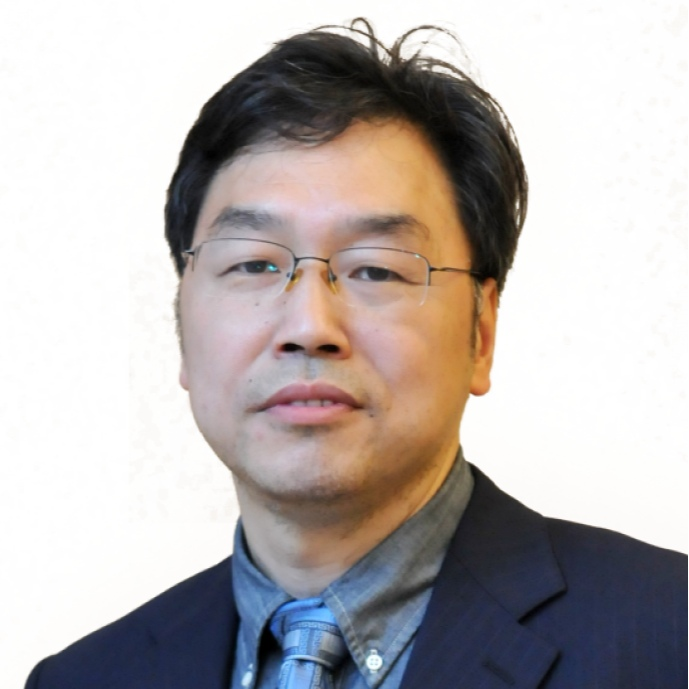
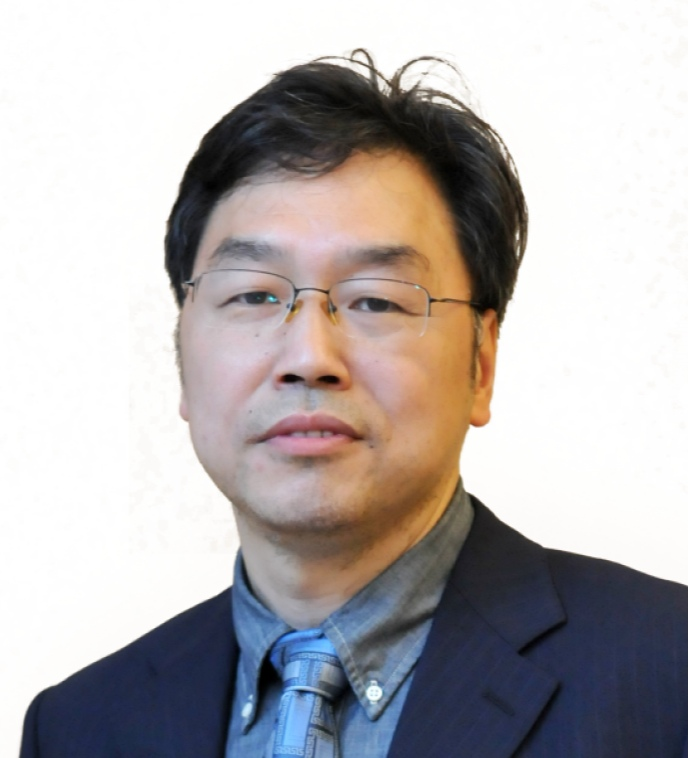
分组研讨页面&照片更新

diff --git a/src/group.html b/src/group.html
@@ -69,6 +69,10 @@
 						href="registration.html">会议注册</a>
 				</li> -->
 				<li>
+                    <a class="block p-2 text-white no-underline rounded hover:text-primary-900 hover:bg-white"
+                        href="group.html">分组研讨</a>
+                </li>
+				<li>
 					<a class="block p-2 text-white no-underline rounded hover:text-primary-900 hover:bg-white"
 						href="hotel.html">交通和酒店</a>
 				</li>
@@ -94,10 +98,10 @@
 				<h2>分组列表</h2>
 				<hr class="h-1 mb-4 bg-primary-200 border-0">
 				<ul class="space-y-4">
-					<li> <a href="#group1">组1（组长：陈昊，副组长：彭思达）</a></li>
-					<li> <a href="#group2">组2（组长：韩晓光，副组长：廖依伊）</a></li>
-					<li> <a href="#group3">组3（组长：戴勃，副组长：邹常青）</a></li>
-					<li> <a href="#group4">组4（组长：刘利斌，副组长：崔兆鹏）</a></li>
+					<li> <a href="#group1">组1（组长：姚遥，副组长：龙霄潇）</a></li>
+					<li> <a href="#group2">组2（组长：陈颖聪，副组长：杜韬）</a></li>
+					<li> <a href="#group3">组3（组长：弋力，副组长：梁俊卫）</a></li>
+					<li> <a href="#group4">组4（组长：宋杰，副组长：李昊昂）</a></li>
 				</ul>
 			</div>
 
@@ -110,16 +114,16 @@
 						<tbody>
 							<tr class="*:p-2">
 								<td class="w-4/5 text-justify leading-relaxed">
-									<strong>陈昊:</strong>
-									陈昊，浙江大学计算机学院百人计划研究员。研究兴趣为计算视觉和人工智能。
-									发表国际著名学术期刊和会议论文30余篇，谷歌学术引用7000余次。
-									所做工作受邀在多个CCF A类国际会议做口头报告。其中全卷积目标检测框架FCOS为ICCV近年第二高引论文。
-									主导开发的自研开源算法库在学术界和工业界被广泛使用，GitHub获得2000+关注。在文字检测、深度估计、
-									语义分割、自动驾驶感知等多项国际人工智能算法竞赛中获得冠军。
+									<strong>姚遥:</strong>
+									姚遥，南京大学智能科学与技术学院准聘副教授、博士生导师，国家级人才计划青年项目入选者。
+									曾任Altizure创始团队核心成员，后随公司收购加入苹果，任苹果公司高级研究员。
+									2015年于南京大学获学士学位，2019年于香港科技大学获博士学位（博士导师：权龙教授）。
+									主要研究方向为三维重建、可微渲染及三维内容生成，代表性工作包括MVSNet系列工作、NeILF系列工作以及Direct3D系列工作，曾获2020年国际模式识别大会最佳学生论文奖。
+									现作为项目负责人承担国家自然科学基金优秀青年科学基金（海外）项目、国家自然科学基金委专项项目（元宇宙专项）以及科技部重点研发计划课题。
 								</td>
 								<td>
 									<img
-										src="https://games-1312234642.cos.ap-guangzhou.myqcloud.com/other/gamesresources/games2023/img/group/chenhao.png">
+										src="static/img/committee/Yao_Yao.jpg">
 								</td>
 							</tr>
 						</tbody>
@@ -129,16 +133,15 @@
 						<tbody>
 							<tr class="*:p-2">
 								<td class="w-4/5 text-justify leading-relaxed">
-									<strong>彭思达:</strong>
-									彭思达，浙江大学软件学院百人计划研究员。在2023年获得浙江大学计算机科学与技术博士学位，
-									研究方向为三维计算机视觉。至今在TPAMI、CVPR、ICCV等期刊或会议发表三十余篇论文，一作论文引用接近2000次，
-									其中一篇一作论文获得CVPR最佳论文候选，发表的论文在GitHub开源获得超过5000个stars。曾获得2023年WAIC云帆奖
-									-明日之星（全球15人）、2022年苹果学者奖学金（全球15人）、2020年CCF-CV学术新锐奖（全国3人）、
-									2021年中国CCF图形开源软件奖。
+									<strong>龙霄潇:</strong>
+									龙霄潇，香港科技大学博士后。2023年博士毕业于香港大学，2018年本科毕业于浙江大学。
+									主要研究方向为3D内容生成、神经渲染、3D曲面建模、基于图像的深度/法向估计、基于图像的3D重建。
+									在TPAMI、CVPR、ICLR、ICCV、ECCV等顶会顶刊发表论文二十余篇。
+									主要有Craftsman3D、Wonder3D、SyncDreamer、SparseNeuS、GeoWizard、GaussianPro等3D AIGC、重建、渲染工作。
 								</td>
 								<td>
 									<img
-										src="https://games-1312234642.cos.ap-guangzhou.myqcloud.com/other/gamesresources/games2023/img/committee/pengsida.png">
+										src="static/img/committee/Xiaoxiao_Long.jpg">
 								</td>
 							</tr>
 						</tbody>
@@ -153,16 +156,18 @@
 						<tbody>
 							<tr class="*:p-2">
 								<td class="w-4/5 text-justify leading-relaxed">
-									<strong>韩晓光:</strong>
-									韩晓光博士，现任香港中文大学（深圳）理工学院助理教授，校长青年学者。他于2017年获得香港大学计算机科学专业博士学位。其研究方向包括计算机视觉和计算机图形学等，在该方向著名国际期刊和会议已发表论文60余篇，包括顶级会议和期刊SIGGRAPH(Asia),
-									CVPR, ICCV, ECCV, NeurIPS, ACM TOG, IEEE
-									TPAMI等。他曾获得吴文俊人工智能优秀青年奖，广东省杰出青年基金资助，香港中文大学（深圳）青年科研奖。目前也担任CVPR2023，NeurIPS
-									2023以及CVPR2024领域主席。他的工作还曾两次获得CCF图形开源数据集奖（DeepFashion3D和MVImgNet），2019年和2020年连续两年入选计算机视觉顶级会议CVPR最佳论文列表（入选率分别为0.8%和0.4%），他也曾获得IEEE
-									TVCG最佳审稿人提名奖。
+									<strong>陈颖聪:</strong>
+									陈颖聪，香港科技大学（广州）人工智能学域助理教授，博导，香港科技大学计算机科学与工程系联署助理教授，
+									受国家人才计划青年项目（海外）资助，毕业于香港中文大学，曾担任麻省理工学院担任博士后研究员。
+									多年以来一直致力于计算机视觉，特别是视觉生成模型的研究，在TPAMI、CVPR、ICCV、ECCV等顶级学术会议、期刊发表论文三十余篇。
+									其工作专注于视觉感知与生成的深度模型的基础与应用研究，研究领域包括三维重建，图像生成，人脸编辑，行人身份识别等，
+									可应用于自动驾驶，智能安全监控，虚拟数字人等实用领域。多次以第一作者或者通信作者身份在顶级会议中做口头报告，
+									其研究成果入选ESI高被引论文、ICCV最佳论文提名，获中国图像图形学会自然科学奖一等奖。
+									在TPAMI、IJCV、CVPR、ICCV、ECCV、NeurlPS、AAAI等顶级学术会议、期刊担任程序委员会成员或审稿人，并在IJCAI与AAAI担任资深程序委员会成员。
 								</td>
 								<td>
 									<img
-										src="https://games-1312234642.cos.ap-guangzhou.myqcloud.com/other/gamesresources/games2023/img/guest/hanxiaoguang.png">
+										src="static/img/committee/Yingcong_Chen.jpg">
 								</td>
 							</tr>
 						</tbody>
@@ -172,13 +177,16 @@
 						<tbody>
 							<tr class="*:p-2">
 								<td class="w-4/5 text-justify leading-relaxed">
-									<strong>廖依伊:</strong>
-									廖依伊，浙江大学信电学院特聘研究员。研究兴趣为三维视觉，包括三维生成、场景重建与理解等。在TPAMI、CVPR、ICCV、NeurIPS等顶级期刊和会议发表文章三十余篇，引用超2500次，其中牵头搭建的大规模稠密标注数据集KITTI-360受到广泛应用且获得ESI高被引论文。担任CVPR2023、NeurIPS
-									2023、CVPR 2024领域主席。获浙江大学启真优秀青年学者、2023 百度 AI 华人女性青年学者。
+									<strong>杜韬:</strong>
+									杜韬，清华大学交叉信息研究院助理教授，博士生导师。
+									杜韬博士毕业于麻省理工学院计算机图形学实验室，主要研究方向为图形学中的物理仿真与计算设计。
+									他的研究工作发表在计算机图形学和机器学习领域顶级期刊和会议（ACM TOG, SIGGRAPH North\nAmerica/Asia, ICLR, ICML, NeurIPS)上，
+									并受到多家知名科技媒体（WIRED，MIT News, IEEE Spectrum, TechCrunch等）的关注与报道。
+									此外，他多次担任SIGGRAPH North America/Asia技术论文程序委员会委员并多次获评NeurIPS/ICML优秀审稿人。
 								</td>
 								<td>
 									<img
-										src="https://games-1312234642.cos.ap-guangzhou.myqcloud.com/other/gamesresources/games2023/img/committee/liaoyiyi.png">
+										src="static/img/committee/Tao_Du.jpg">
 								</td>
 							</tr>
 						</tbody>
@@ -195,17 +203,16 @@
 						<tbody>
 							<tr class="*:p-2">
 								<td class="w-4/5 text-justify leading-relaxed">
-									<strong>戴勃:</strong>
-									戴勃，上海人工智能实验室青年科学家，内容生成与数字
-									化研究团队负责人，书生天际城市级实景三维大模型负责人，
-									曾任新加坡南洋理工大学研究助理教授。研究领域为AIGC，
-									希望通过研究实现多快好省的虚拟内容生产。
-									在人工智能顶级会议和期刊发表相关论文共计40余篇。
-									近期代表性成果书生天际LandMark，AnimateDiff，Matlaber
+									<strong>弋力:</strong>
+									弋力博士现任清华大学交叉信息研究院助理教授。
+									他在斯坦福大学取得博士学位，导师为美国三院院士Leonidas J. Guibas教授，毕业后在谷歌研究院任研究科学家。
+									他近期的研究聚焦于三维视觉与具身智能，他的研究目标是赋予机器人理解并与三维世界交互的能力。
+									他在计算机顶级会议期刊上已发表论文六十余篇，引用数两万余次，代表作品包括ShapeNet Part，SyncSpecCNN，PointNet++等，
+									大大影响了三维深度学习这一领域的出现与发展。此外他还多次担任CVPR、IJCAI、NeurIPS等人工智能领域顶会的领域主席。
 								</td>
 								<td>
 									<img
-										src="https://games-1312234642.cos.ap-guangzhou.myqcloud.com/other/gamesresources/games2023/img/guest/daibo.png">
+										src="static/img/committee/Li_Yi.jpg">
 								</td>
 							</tr>
 						</tbody>
@@ -215,17 +222,17 @@
 						<tbody>
 							<tr class="*:p-2">
 								<td class="w-4/5 text-justify leading-relaxed">
-									<strong>邹常青:</strong>
-									邹常青，浙江大学计算机学院百人计划研究员，博士生导师，
-									之江实验室研究专家。研究兴趣为可视媒体内容合成与表征分析。
-									加入浙江大学前任职华为2012实验室加拿大研究院资深主任研究科学家及助理首席科学家,
-									曾任职美国马里兰大学先进计算机技术研究所(UMIACS)研究助理教授, 在加拿大西蒙菲沙大学GrUVi Lab完成博士后深造,
-									在中国科学院深圳先进技术研究院多媒体技术研究中心(SIAT-MMLA)完成博士学习, 曾访学微软亚洲研究院(MSRA)、德国马普所(MPI)等研究机构。
-									在国际重要学术期刊及会议上发表论文70余篇(其中30多篇发表在Cell子刊、SIGGRAPH、TPAMI等顶会顶刊上), 授权美国发明专利10余项。
+									<strong>梁俊卫:</strong>
+									梁俊卫，香港科技大学（广州）人工智能学域助理教授/副研究员/博士生导师，
+									创立并领导智能感知与预测实验室，卡内基梅隆大学计算机博士，曾获得百度奖学金（全球10名），
+									雅虎奖学金，世界人工智能大会明日之星云帆奖，研究工作曾被包括美国华盛顿邮报、纽约时报以及机器之心等媒体报道。
+									研究内容包括计算机视觉与具身智能，近五年内于CVPR、TPAMI、NeurIPS等国际顶级期刊会议发表论文30余篇，
+									谷歌学术引用量1500余次, h-index 17，组织举办顶级会议CVPR 2023、2024的Precognition Workshop；
+									主持国自然青年基金、两项广州市科技局课题、两项校级课题、美团机器人研究院、华为课题等近两百万元的科研项目，并参与科技部国家重点研发计划。
 								</td>
 								<td>
 									<img
-										src="https://games-1312234642.cos.ap-guangzhou.myqcloud.com/other/gamesresources/games2023/img/committee/zouchangqing.png">
+										src="static/img/committee/Junwei_Liang.jpg">
 								</td>
 							</tr>
 						</tbody>
@@ -242,17 +249,15 @@
 						<tbody>
 							<tr class="*:p-2">
 								<td class="w-4/5 text-justify leading-relaxed">
-									<strong>刘利斌:</strong>
-									刘利斌，北京大学智能学院助理教授。博士毕业于清华大学，后曾于加拿大不列颠哥伦比亚大学（The University of British
-									Columbia）及美国迪士尼研究院（Disney Research）进行博士后研究，以及美国硅谷创业公司DeepMotion
-									Inc.担任首席科学家。主要研究方向是计算机图形学，特别是数字人建模与动画、物理仿真、运动控制以及相关的优化控制、机器学习、增强学习等领域。他曾获得
-									SIGGRAPH Asia 2022 Best Paper Award、SIGGRAPH 2023 Honorable Mention Award
-									等奖项，并多次担任图形学领域重要国际会议如SIGGRAPH (North
-									America/Asia)、EG、PG、SCA等的论文程序委员，以及图形学领域主要会议和期刊的审稿人。
+									<strong>宋杰:</strong>
+									宋杰，香港科技大学（广州）助理教授。
+									宋杰博士毕业于瑞士苏黎世联邦理工学院，曾获得高通博士创新奖学金提名，瑞士电信最佳论文。
+									他专注于计算机视觉，机器人以及人机交互研究，近五年在各类顶级计算机顶级会议期刊发表论文多篇(包括3DV最佳论文奖， 多篇CVPR口头报告等)。
+									学术服务方面，宋博士多次担任计算机顶会领域主席，并担任3DV2025大会主席。
 								</td>
 								<td>
 									<img
-										src="https://games-1312234642.cos.ap-guangzhou.myqcloud.com/other/gamesresources/games2023/img/group/liulibin.png">
+										src="static/img/committee/Jie_Song.jpg">
 								</td>
 							</tr>
 						</tbody>
@@ -262,14 +267,20 @@
 						<tbody>
 							<tr class="*:p-2">
 								<td class="w-4/5 text-justify leading-relaxed">
-									<strong>崔兆鹏:</strong>
-									崔兆鹏，浙江大学计算机科学与技术学院
-									“百人计划”研究员、博士生导师，国家级青年人才计划入选者。2017年在加拿大西蒙弗雷泽大学获得博士学位。2017年至2020年在瑞士苏黎世联邦理工学院计算机视觉和几何实验室任高级研究员。研究方向为三维计算机视觉，主要从事基于视觉信息的三维感知和理解，具体包括三维重建、运动恢复结构、多视角立体几何、三维场景理解、同时定位与地图构建、视频图像编辑等。近年来在计算机视觉、机器人、计算机图形学、机器学习等领域的顶级期刊和会议上发表论文40余篇，曾获ICRA
-									2020 机器视觉最佳论文提名和IROS 2021安全、安保和救援机器人最佳论文提名。
+									<strong>李昊昂:</strong>
+									李昊昂博士于香港科技大学（广州）机器人与自主系统学域和智能交通学域担任助理教授，
+									并领导智能机器人感知与导航实验室Intelligent Robot Perception and Navigation (IRPN) Lab。
+									在此之前，他在慕尼黑工业大学担任博士后研究员，师从Daniel Cremers教授（Leibniz Prize获得者）。
+									他于2022年获得香港中文大学博士学位，师从Yun-Hui Liu教授（IEEE Fellow）。
+									博士期间，他曾在苏黎世联邦理工学院进行学术访问，师从Marc Pollefeys教授（Marr Prize获得者）。
+									他于2018和2016年分别获得武汉大学硕士和学士学位。
+									他在计算机视觉和机器人行业顶级会议和期刊（例如CVPR, ICCV, ECCV, TPAMI等）发表多篇文章，
+									并曾获得香港特区教育局研究外展奖、ICCV 2021博士生联合会奖、ICRA 2024 RoboDrive挑战赛季军、CVPR 2021杰出审稿人等奖项。
+									他的主要研究方向为机器人/无人车导航、三维计算机视觉、具身智能等。
 								</td>
 								<td>
 									<img
-										src="https://games-1312234642.cos.ap-guangzhou.myqcloud.com/other/gamesresources/games2023/img/committee/cuizhaopeng.png">
+										src="static/img/committee/Haoang_Li.jpg">
 								</td>
 							</tr>
 						</tbody>

diff --git a/src/committee.html b/src/committee.html
@@ -69,6 +69,10 @@
                 </li> -->
                 <li>
                     <a class="block p-2 text-white no-underline rounded hover:text-primary-900 hover:bg-white"
+                        href="group.html">分组研讨</a>
+                </li>
+                <li>
+                    <a class="block p-2 text-white no-underline rounded hover:text-primary-900 hover:bg-white"
                         href="hotel.html">交通和酒店</a>
                 </li>
             </ul>

diff --git a/src/guest.html b/src/guest.html
@@ -70,6 +70,10 @@
                 </li> -->
                 <li>
                     <a class="block p-2 text-white no-underline rounded hover:text-primary-900 hover:bg-white"
+                        href="group.html">分组研讨</a>
+                </li>
+                <li>
+                    <a class="block p-2 text-white no-underline rounded hover:text-primary-900 hover:bg-white"
                         href="hotel.html">交通和酒店</a>
                 </li>
             </ul>

diff --git a/src/hotel.html b/src/hotel.html
@@ -69,6 +69,10 @@
                 </li> -->
                 <li>
                     <a class="block p-2 text-white no-underline rounded hover:text-primary-900 hover:bg-white"
+                        href="group.html">分组研讨</a>
+                </li>
+                <li>
+                    <a class="block p-2 text-white no-underline rounded hover:text-primary-900 hover:bg-white"
                         href="hotel.html">交通和酒店</a>
                 </li>
             </ul>

diff --git a/src/index.html b/src/index.html
@@ -69,6 +69,10 @@
                 </li> -->
                 <li>
                     <a class="block p-2 text-white no-underline rounded hover:text-primary-900 hover:bg-white"
+                        href="group.html">分组研讨</a>
+                </li>
+                <li>
+                    <a class="block p-2 text-white no-underline rounded hover:text-primary-900 hover:bg-white"
                         href="hotel.html">交通和酒店</a>
                 </li>
             </ul>

diff --git a/src/program.html b/src/program.html
@@ -70,6 +70,10 @@
                 </li> -->
                 <li>
                     <a class="block p-2 text-white no-underline rounded hover:text-primary-900 hover:bg-white"
+                        href="group.html">分组研讨</a>
+                </li>
+                <li>
+                    <a class="block p-2 text-white no-underline rounded hover:text-primary-900 hover:bg-white"
                         href="hotel.html">交通和酒店</a>
                 </li>
             </ul>

diff --git a/src/registration.html b/src/registration.html
@@ -69,6 +69,10 @@
                 </li> -->
                 <li>
                     <a class="block p-2 text-white no-underline rounded hover:text-primary-900 hover:bg-white"
+                        href="group.html">分组研讨</a>
+                </li>
+                <li>
+                    <a class="block p-2 text-white no-underline rounded hover:text-primary-900 hover:bg-white"
                         href="hotel.html">交通和酒店</a>
                 </li>
             </ul>

diff --git a/src/speaker.html b/src/speaker.html
@@ -69,6 +69,10 @@
 						href="registration.html">会议注册</a>
 				</li> -->
 				<li>
+                    <a class="block p-2 text-white no-underline rounded hover:text-primary-900 hover:bg-white"
+                        href="group.html">分组研讨</a>
+                </li>
+				<li>
 					<a class="block p-2 text-white no-underline rounded hover:text-primary-900 hover:bg-white"
 						href="hotel.html">交通和酒店</a>
 				</li>
